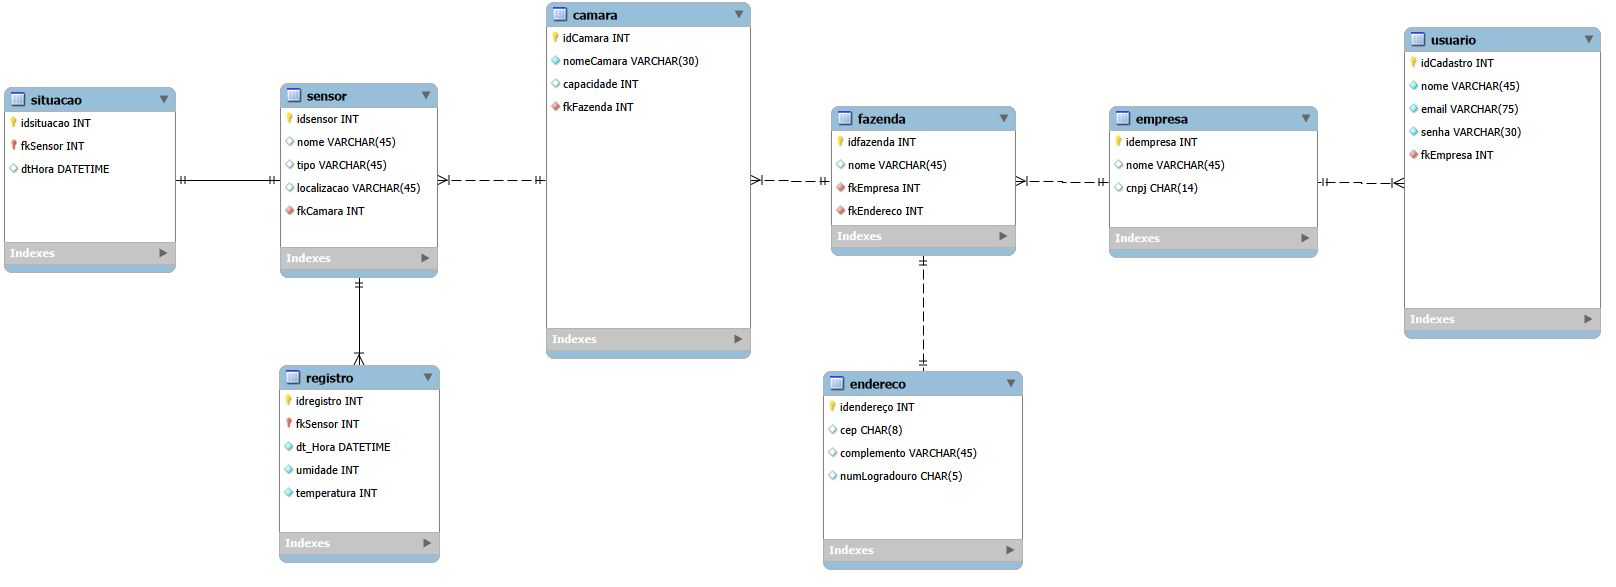
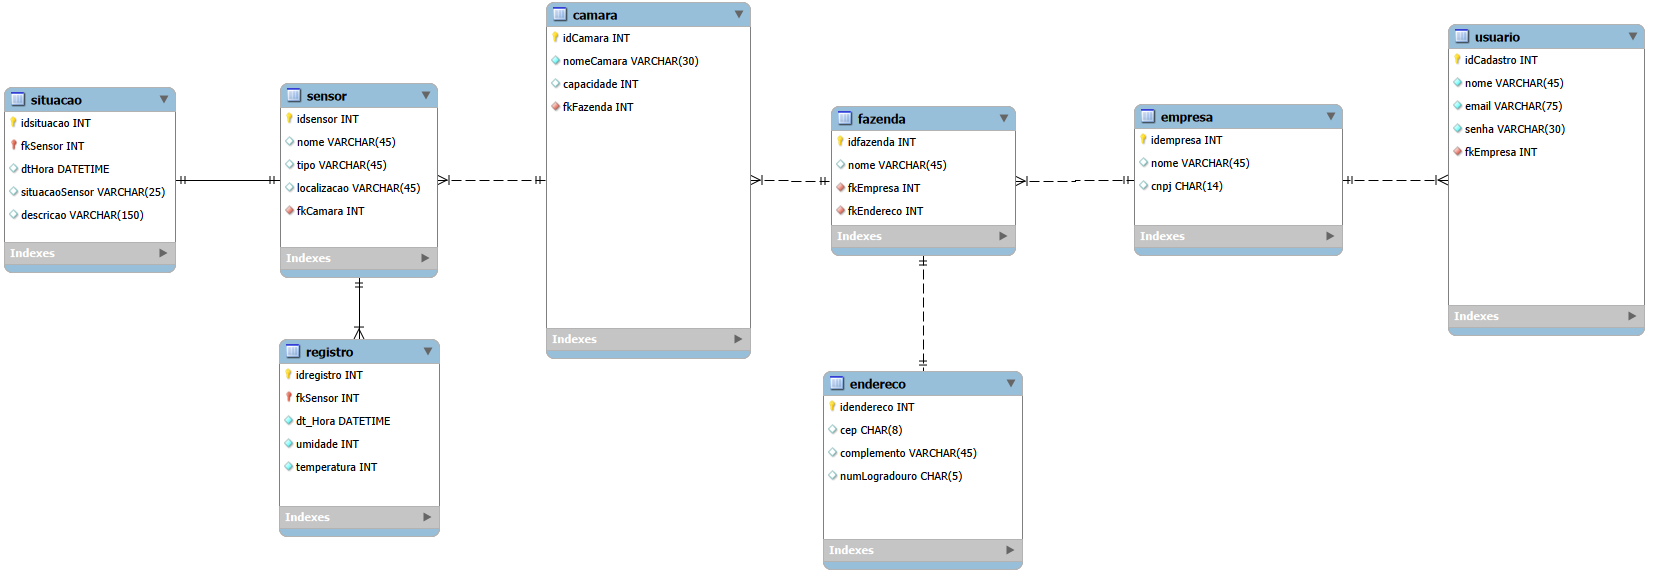
Modelagem alterada, grafico dos alertas semanais restaurado

diff --git a/VigLat/web-data-viz-main/public/Páginas do site/js/chart.js b/VigLat/web-data-viz-main/public/Páginas do site/js/chart.js
@@ -6,17 +6,11 @@ const graficoUmidade = document.getElementById("grafico-umidade");
 new Chart(alertas, {
   type: "bar",
   data: {
-    labels: [
-      "CÂMARA 01",
-      "CÂMARA 02",
-      "CÂMARA 03",
-      "CÂMARA 04",
-      
-    ],
+    labels: ["CÂMARA 01", "CÂMARA 02", "CÂMARA 03", "CÂMARA 04"],
     datasets: [
       {
         label: "Alertas",
-        data: [0,1,0,4],
+        data: [0, 1, 0, 4],
         borderColor: "#7a5208",
         backgroundColor: "#7a5208",
       },
@@ -47,32 +41,87 @@ new Chart(alertas, {
   },
 });
 
+new Chart(alertaSemana, {
+  type: "bar",
+  data: {
+    labels: [
+      "Segunda-Feira",
+      "Terça-Feira",
+      "Quarta-Feira",
+      "Quinta-Feira",
+      "Sexta-Feira",
+      "Sabado",
+      "Domingo",
+    ],
+    datasets: [
+      {
+        label: "Total de Alertas Semanais",
+        data: [1, 1, 0, 3, 4, 1, 1],
+        borderColor: "#7a5208",
+        backgroundColor: "#7a5208",
+      },
+    ],
+  },
+  options: {
+    maintainAspectRatio: false,
+    plugins: {
+      title: {
+        display: true,
+        text: "Quantidade de Alertas",
+      },
+    },
+    scales: {
+      y: {
+        stacked: true,
+        grid: {
+          display: true,
+          color: "rgba(255,99,132,0.2)",
+        },
+      },
+      x: {
+        grid: {
+          display: false,
+        },
+      },
+    },
+  },
+});
+
 const dadosSensorA = {
-  horas: ["12:00", "13:00", "14:00", "15:00","16:00","17:00","18:00","19:00"],
-  temperatura: [22, 21, 20, 22,22, 21, 20, 22],
-  umidade: [80, 82, 80, 85,80, 82, 80, 85],
+  horas: [
+    "12:00",
+    "13:00",
+    "14:00",
+    "15:00",
+    "16:00",
+    "17:00",
+    "18:00",
+    "19:00",
+  ],
+  temperatura: [22, 21, 20, 22, 22, 21, 20, 22],
+  umidade: [80, 82, 80, 85, 80, 82, 80, 85],
 };
 
 const dadosSensorB = {
   horas: dadosSensorA.horas,
-  temperatura: [20, 20, 26, 22,15, 27, 26, 32],
-  umidade: [60, 67, 72, 65,60, 67, 72, 85],
+  temperatura: [20, 20, 26, 22, 15, 27, 26, 32],
+  umidade: [60, 67, 72, 65, 60, 67, 72, 85],
 };
 
 const dadosSensorC = {
   horas: dadosSensorA.horas,
-  temperatura: [18, 22, 20, 21,18, 22, 20, 21],
-  umidade: [90, 87, 90, 80,80, 87, 90, 80],
+  temperatura: [18, 22, 20, 21, 18, 22, 20, 21],
+  umidade: [90, 87, 90, 80, 80, 87, 90, 80],
 };
 const tempMaxIdeal = {
   horas: dadosSensorA.horas,
-  temperatura: [22, 22, 22, 22,22, 22, 22, 22],
-  umidade: [95, 95, 95, 95,95, 95, 95, 95],
+  temperatura: [22, 22, 22, 22, 22, 22, 22, 22],
+  umidade: [95, 95, 95, 95, 95, 95, 95, 95],
 };
 const tempMinIdeal = {
   horas: dadosSensorA.horas,
-  temperatura: [18, 18, 18, 18,18, 18, 18, 18],
-  umidade: [80, 80, 80, 80,80, 80, 80, 80],
+  temperatura: [18, 18, 18, 18, 18, 18, 18, 18],
+  umidade: [80, 80, 80, 80, 80, 80, 80, 80],
 };
 
 new Chart(graficoTemp, {
@@ -84,48 +133,46 @@ new Chart(graficoTemp, {
         label: "Sensor A",
         data: dadosSensorA.temperatura,
         borderColor: "purple",
-        backgroundColor: "purple"
+        backgroundColor: "purple",
       },
       {
         label: "Sensor B",
         data: dadosSensorB.temperatura,
         borderColor: "orange",
-        backgroundColor: "orange"
+        backgroundColor: "orange",
       },
       {
         label: "Sensor C",
         data: dadosSensorC.temperatura,
         borderColor: "gray",
-        backgroundColor: "gray"
+        backgroundColor: "gray",
       },
       {
         label: "Faixa Ideal",
         data: tempMaxIdeal.temperatura,
         borderColor: "#459aea4a",
-        backgroundColor: "#459aea4a"
+        backgroundColor: "#459aea4a",
       },
       {
         label: "tempMinIdeal",
         data: tempMinIdeal.temperatura,
         borderColor: "#459aea4a",
         backgroundColor: "#459aea4a",
-        fill: '-1'
-
+        fill: "-1",
       },
     ],
   },
   options: {
-   
-    tension:0.25,
+    tension: 0.25,
     maintainAspectRatio: false,
     scales: {
-      y:{
+      y: {
         min: 8,
-        max: 32
-      }
+        max: 32,
+      },
     },
     plugins: {
-       title: {
+      title: {
         display: true,
         text: "Gráfico de Temperatura",
       },
@@ -133,11 +180,10 @@ new Chart(graficoTemp, {
         labels: {
           filter: function (item, chart) {
             return item.text !== "Faixa Ideal" && item.text !== "tempMinIdeal";
-          }
-        }
-      }
-    }
-
+          },
+        },
+      },
+    },
   },
 });
 
@@ -167,22 +213,22 @@ new Chart(graficoUmidade, {
       {
         label: "FaixaMinIdeal",
         data: tempMaxIdeal.umidade,
-       borderColor: "#459aea4a",
+        borderColor: "#459aea4a",
         backgroundColor: "#459aea4a",
       },
       {
         label: "FaixaMaxIdeal",
         data: tempMinIdeal.umidade,
-       borderColor: "#459aea4a",
+        borderColor: "#459aea4a",
         backgroundColor: "#459aea4a",
-        fill: '-1'
+        fill: "-1",
       },
     ],
   },
   options: {
-    tension:0.25,
+    tension: 0.25,
     maintainAspectRatio: false,
-     
+
     scales: {
       y: {
         min: 50,
@@ -198,7 +244,7 @@ new Chart(graficoUmidade, {
         },
       },
     },
-     plugins: {
+    plugins: {
       title: {
         display: true,
         text: "Gráfico de Umidade",
@@ -206,10 +252,12 @@ new Chart(graficoUmidade, {
       legend: {
         labels: {
           filter: function (item, chart) {
-            return item.text !== "FaixaMaxIdeal" && item.text !== "FaixaMinIdeal";
-          }
-        }
-      }
-    }
+            return (
+              item.text !== "FaixaMaxIdeal" && item.text !== "FaixaMinIdeal"
+            );
+          },
+        },
+      },
+    },
   },
 });
